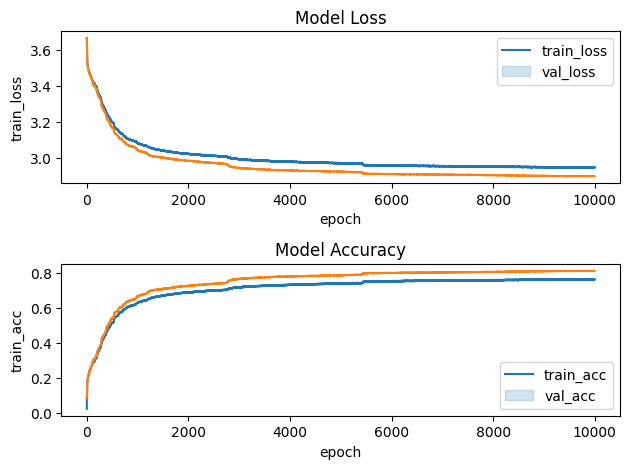
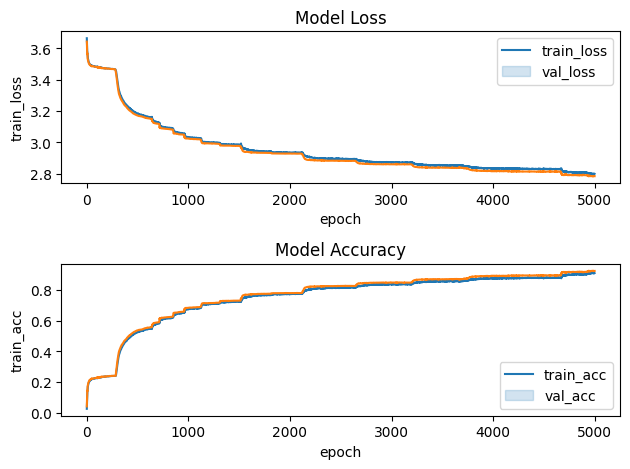
Switched from MFCC feature extraction to spectrogram use, increased n_components for PCA, tweaked hyperparameters to get ~90% accuracy, made function to emulate typing for result analysis

diff --git a/process_audio/preprocess_data.py b/process_audio/preprocess_data.py
@@ -1,28 +1,21 @@
 import pandas as pd
 import numpy as np
-from pydub import AudioSegment
 import noisereduce as nr
-import soundfile as sf
 import os
 import re
 from sklearn.preprocessing import StandardScaler
 from sklearn.decomposition import PCA
 from sklearn.preprocessing import OneHotEncoder
+import librosa
 
 # Loads data, reduces noise, extracts features, standardizes, and reduces the dimensionality of the data
 
 def load_audio(filename):
-    return sf.read(filename)
+    return librosa.load(filename, sr=None)
 
 def reduce_noise(audio, sample_rate, output_file='cleaned.wav'):
     reduced_noise = nr.reduce_noise(y=audio, sr=sample_rate, prop_decrease=.75)
-
-    # Save the cleaned audio to a new file
-    output_file = "../cleaned_output.wav"
-    sf.write(output_file, reduced_noise, sample_rate)
-
-    audio = AudioSegment.from_wav(output_file)
-    return audio
+    return reduced_noise
 
 # Convert shifted characters (!, @, etc.) to unshifted versions (1, 2, etc)
 def map_shifted_keys(key):
@@ -117,10 +110,11 @@ def load_data(label_file, audio_file="audio.wav"):
     return cleaned_audio, labels, sample_rate
 
 # Segment audio based on labels
-# padding: amount of time before press and after release to include
-def labeled_audio_segmentation(labels, audio, padding=20):
+# ms_pad: amount of time (in ms) before press and after release to include
+def labeled_audio_segmentation(labels, audio, sr=44100, ms_pad=20):
     keystrokes = [] # list of segments of audio
     labels_list = [] # list of dicts that contain key pressed, time pressed, time released
+    padding = int(sr * (ms_pad / 1000.))
     for event in labels:
 
         label = event['key']
@@ -139,32 +133,20 @@ def labeled_audio_segmentation(labels, audio, padding=20):
     return keystrokes, labels_list
 
 
-"""
-Written by Shoyo Inokuchi (June 2019)
 
-Scripts for the acoustic keylogger surrounding feature extraction.
-Repository is located at: https://github.com/shoyo-inokuchi/acoustic-keylogger
-"""
-from librosa.feature import mfcc
-
-
-def extract_features(keystroke, sr=44100, n_mfcc=16, n_fft=441, hop_len=110):
-    """Return an MFCC-based feature vector for a given keystroke."""
-    spec = mfcc(y=keystroke.astype(float),
-                sr=sr,
-                n_mfcc=n_mfcc,
-                n_fft=n_fft, # n_fft=220 for a 10ms window
-                hop_length=hop_len, # hop_length=110 for ~2.5ms
-                )
-    return spec.flatten()
+def extract_features(keystroke):
+    D = librosa.stft(keystroke, n_fft=512)
+    S_db = librosa.amplitude_to_db(np.abs(D), ref=np.max)
+    spectrogram = (S_db - np.min(S_db)) / (np.max(S_db) - np.min(S_db))
+    return spectrogram.flatten()
 
 
 def convert_to_array(list_of_keys):
     list_of_arrays = []
     for key in list_of_keys:
-        key_array = np.array(key.get_array_of_samples())
-        list_of_arrays.append(extract_features(key_array, sr=key.frame_rate))
-    
+        key_array = np.array(key)
+        list_of_arrays.append(extract_features(key_array))
+
     return list_of_arrays
 
 def scale_features(data: pd.DataFrame):
@@ -172,7 +154,7 @@ def scale_features(data: pd.DataFrame):
     return sc.fit_transform(data), sc
 
 # Reduce dimensions from >1000 to n_components with PCA
-def dim_reduction(data: pd.DataFrame, n_components=20):
+def dim_reduction(data: pd.DataFrame, n_components=128):
     pca = PCA(n_components=n_components)
     return pca.fit_transform(data), pca
 
@@ -203,8 +185,8 @@ def preprocess_data(data_dir='data', labeled=True):
         label_file = data_dir + '/' + base + '.tsv'
         audio_file = data_dir + '/' + base + '.wav'
 
-        audio, labels, _ = load_data(label_file, audio_file)
-        segmented_audio, seg_labels = labeled_audio_segmentation(labels, audio)
+        audio, labels, sr = load_data(label_file, audio_file)
+        segmented_audio, seg_labels = labeled_audio_segmentation(labels, audio, sr)
 
         key_df = pd.DataFrame(convert_to_array(segmented_audio))
         key_df['label'] = seg_labels
@@ -228,6 +210,8 @@ def preprocess_data(data_dir='data', labeled=True):
 
 def main():
     df, labels, _ = preprocess_data()
+    print(df.head())
+    print(df.shape)
 
 if __name__ == '__main__':
     main()
